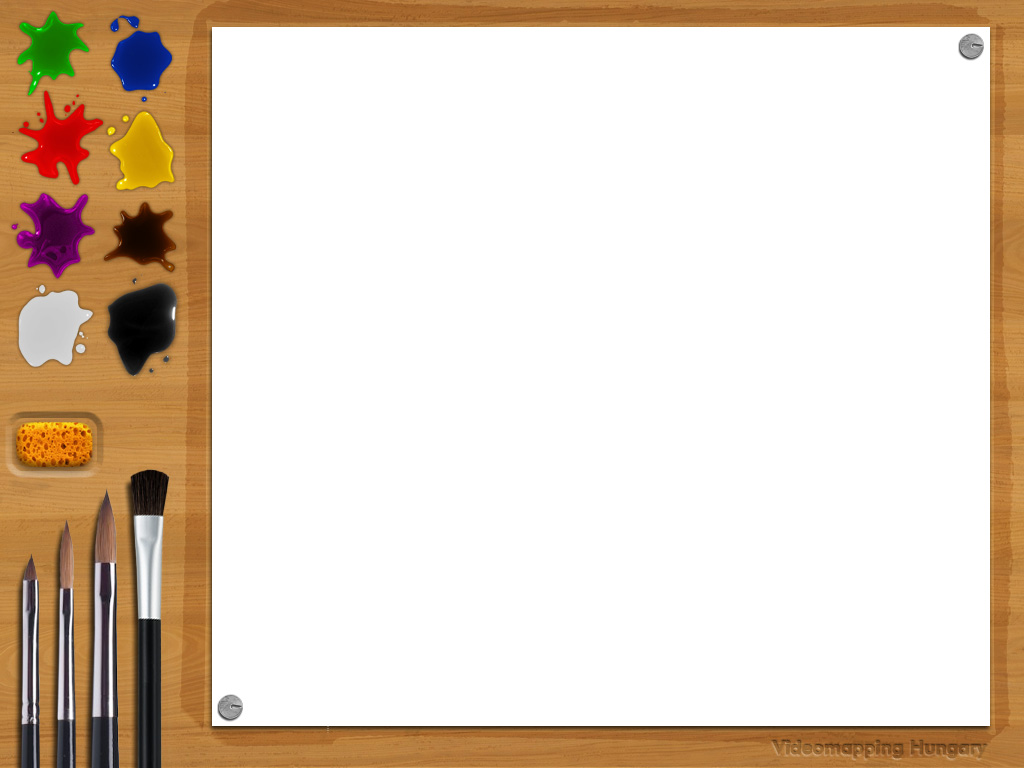
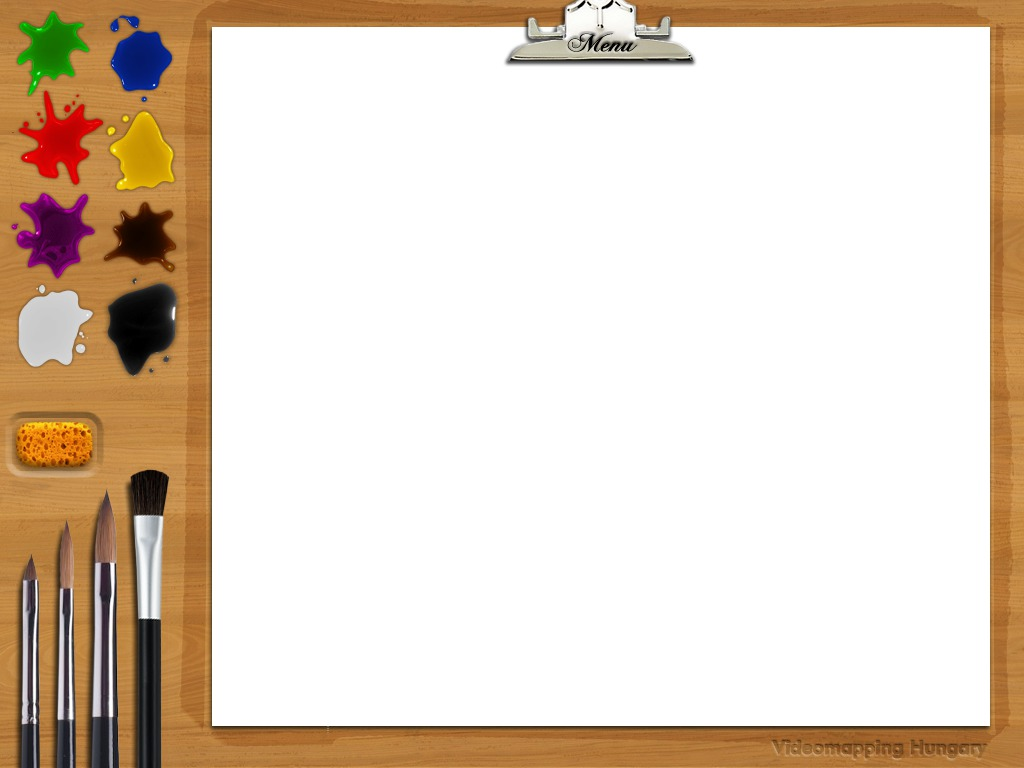
menu operation

diff --git a/src/IRPaint.cpp b/src/IRPaint.cpp
@@ -108,6 +108,7 @@ class IRPaint : public AppBasic
 		int32_t mBrushIndex; //<< current brush index
 #define MAX_BRUSHES 5
 #define BRUSH_ERASER 5 // id of the eraser, has to be handled separately
+#define MENU_ID 7 // id of the menu on the brush map
 		float mBrushThickness[ MAX_BRUSHES + 1 ]; //< thickness of brushes, index range is 1-5
 
 		void setupMenu();
@@ -136,6 +137,7 @@ void IRPaint::resize( ResizeEvent event )
 			Rectf( Vec2f( 0, 0 ), event.getSize() ) );
 	mMapMapping = RectMapping( Rectf( Vec2f::zero(), event.getSize() ),
 							   mBrushesMap.getBounds() );
+	mMenu.setPosition( ( event.getSize() - mMenu.getSize() ) / 2 );
 }
 
 /** Selects color and brush size from the toolbar from the location of \a pos.
@@ -162,9 +164,19 @@ void IRPaint::selectTools( const Vec2f &pos, const Area &area )
 	ColorA8u brushSelect = mBrushesMap.getPixel( mapPosi );
 	if ( brushSelect.a )
 	{
-		mBrushIndex = ( brushSelect.r & 0x04 ) |
-					  ( brushSelect.g & 0x02 ) |
-					  ( brushSelect.b & 0x01 );
+		int32_t index = ( brushSelect.r & 0x04 ) |
+					    ( brushSelect.g & 0x02 ) |
+					    ( brushSelect.b & 0x01 );
+		if ( ( index > 0 ) && ( index <= MAX_BRUSHES ) )
+		{
+			mBrushIndex = index;
+		}
+		else
+		if ( index == MENU_ID )
+		{
+			// show/hide menu
+			mMenu.show( !mMenu.isVisible() );
+		}
 	}
 	else
 	if ( mBrushesStencil.getPixel( mapPosi ).a ) // more accurate brush selection
@@ -288,7 +300,10 @@ void IRPaint::blobsBegan( mndl::BlobEvent event )
 
 	selectTools( pos, area );
 
-	beginStroke( event.getId(), pos );
+	if ( mMenu.isVisible() )
+		mMenu.processClick( pos );
+	else
+		beginStroke( event.getId(), pos );
 }
 
 void IRPaint::blobsMoved( mndl::BlobEvent event )
@@ -299,7 +314,8 @@ void IRPaint::blobsMoved( mndl::BlobEvent event )
 	Vec2f pos = mCalibratorRef->map( event.getPos() );
 	pos = mCoordMapping.map( pos );
 
-	updateStroke( event.getId(), pos );
+	if ( !mMenu.isVisible() )
+		updateStroke( event.getId(), pos );
 }
 
 void IRPaint::blobsEnded( mndl::BlobEvent event )
@@ -307,7 +323,8 @@ void IRPaint::blobsEnded( mndl::BlobEvent event )
 	if ( mCalibratorRef->isCalibrating() )
 		return;
 
-	endStroke( event.getId() );
+	if ( !mMenu.isVisible() )
+		endStroke( event.getId() );
 }
 
 void IRPaint::setup()
@@ -400,6 +417,11 @@ void IRPaint::clearDrawing()
 	mDrawing.bindFramebuffer();
 	gl::clear( ColorA( 1, 1, 1, 0 ) );
 	mDrawing.unbindFramebuffer();
+
+	mStrokes.clear();
+
+	// hide the menu
+	timeline().add( std::bind( &mndl::gl::TextureMenu::hide, &mMenu ), timeline().getCurrentTime() + 1 );
 }
 
 void IRPaint::loadImages()
@@ -452,6 +474,7 @@ void IRPaint::setupMenu()
 	mMenu.addButton( loadImage( loadResource( RES_MENU_HU_CLEAR_ON ) ),
 			loadImage( loadResource( RES_MENU_HU_CLEAR_OFF ) ),
 			&IRPaint::clearDrawing, this );
+	mMenu.hide();
 }
 
 void IRPaint::shutdown()
@@ -519,6 +542,8 @@ void IRPaint::draw()
 	gl::drawSolidRect( getWindowBounds() );
 	mMixerShader.unbind();
 
+	mMenu.draw();
+
 	mTracker.draw();
 
 	params::PInterfaceGl::draw();
@@ -544,6 +569,9 @@ void IRPaint::saveScreenshot()
 	}
 
 	mScreenshotThread = thread( &IRPaint::threadedScreenshot, this, snapshot );
+
+	// hide the menu
+	timeline().add( std::bind( &mndl::gl::TextureMenu::hide, &mMenu ), timeline().getCurrentTime() + 1 );
 }
 
 void IRPaint::threadedScreenshot( Surface snapshot )
@@ -582,18 +610,24 @@ void IRPaint::showAllParams( bool visible )
 void IRPaint::mouseDown( MouseEvent event )
 {
 	Vec2i pos = event.getPos();
+	if ( mMenu.isVisible() )
+		mMenu.processClick( pos );
+	else
+		beginStroke( 1, pos );
+
 	selectTools( pos, Area( pos - Vec2i( 1, 1 ), pos + Vec2i( 1, 1 ) ) );
-	beginStroke( 1, pos );
 }
 
 void IRPaint::mouseDrag( MouseEvent event )
 {
-	updateStroke( 1, event.getPos() );
+	if ( !mMenu.isVisible() )
+		updateStroke( 1, event.getPos() );
 }
 
 void IRPaint::mouseUp( MouseEvent event )
 {
-	endStroke( 1 );
+	if ( !mMenu.isVisible() )
+		endStroke( 1 );
 }
 
 void IRPaint::keyDown( KeyEvent event )

diff --git a/src/TextureMenu.cpp b/src/TextureMenu.cpp
@@ -1,3 +1,4 @@
+#include "cinder/app/App.h"
 #include "cinder/gl/gl.h"
 
 #include "TextureMenu.h"
@@ -81,7 +82,10 @@ void TextureMenu::processClick( const ci::Vec2i &pos )
 		(*it)->mIsOn = (*it)->mArea.contains( p );
 
 		if ( (*it)->mIsOn )
+		{
 			(*it)->mSignal();
+			app::timeline().apply( &(*it)->mIsOn, false, .5f );
+		}
 	}
 }
 

diff --git a/include/TextureMenu.h b/include/TextureMenu.h
@@ -2,6 +2,7 @@
 
 #include <vector>
 
+#include "cinder/Timeline.h"
 #include "cinder/Cinder.h"
 
 #include <boost/bind.hpp>
@@ -44,7 +45,7 @@ class TextureMenu
 			ci::gl::Texture mTextureOn;
 			ci::gl::Texture mTextureOff;
 			ci::Area mArea;
-			bool mIsOn;
+			ci::Anim< bool > mIsOn;
 
 			ButtonSignal mSignal;
 		};
